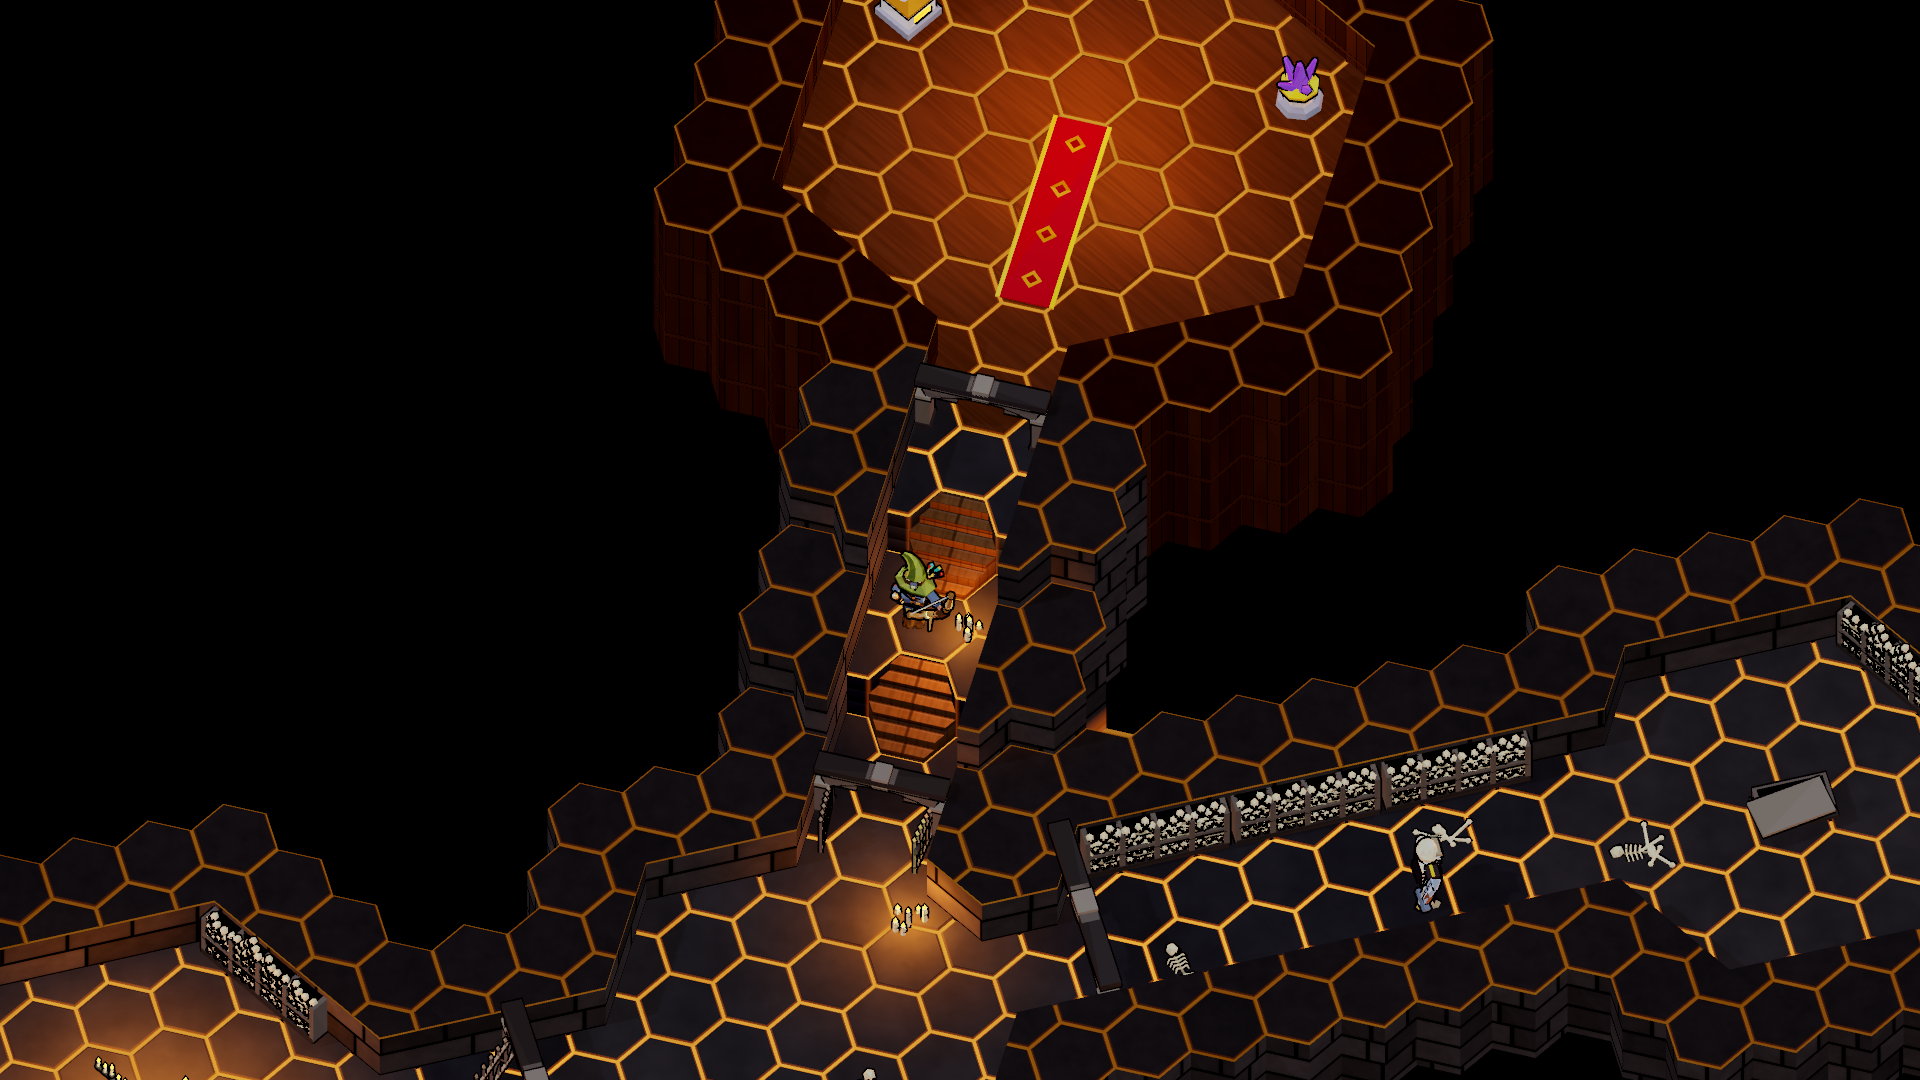
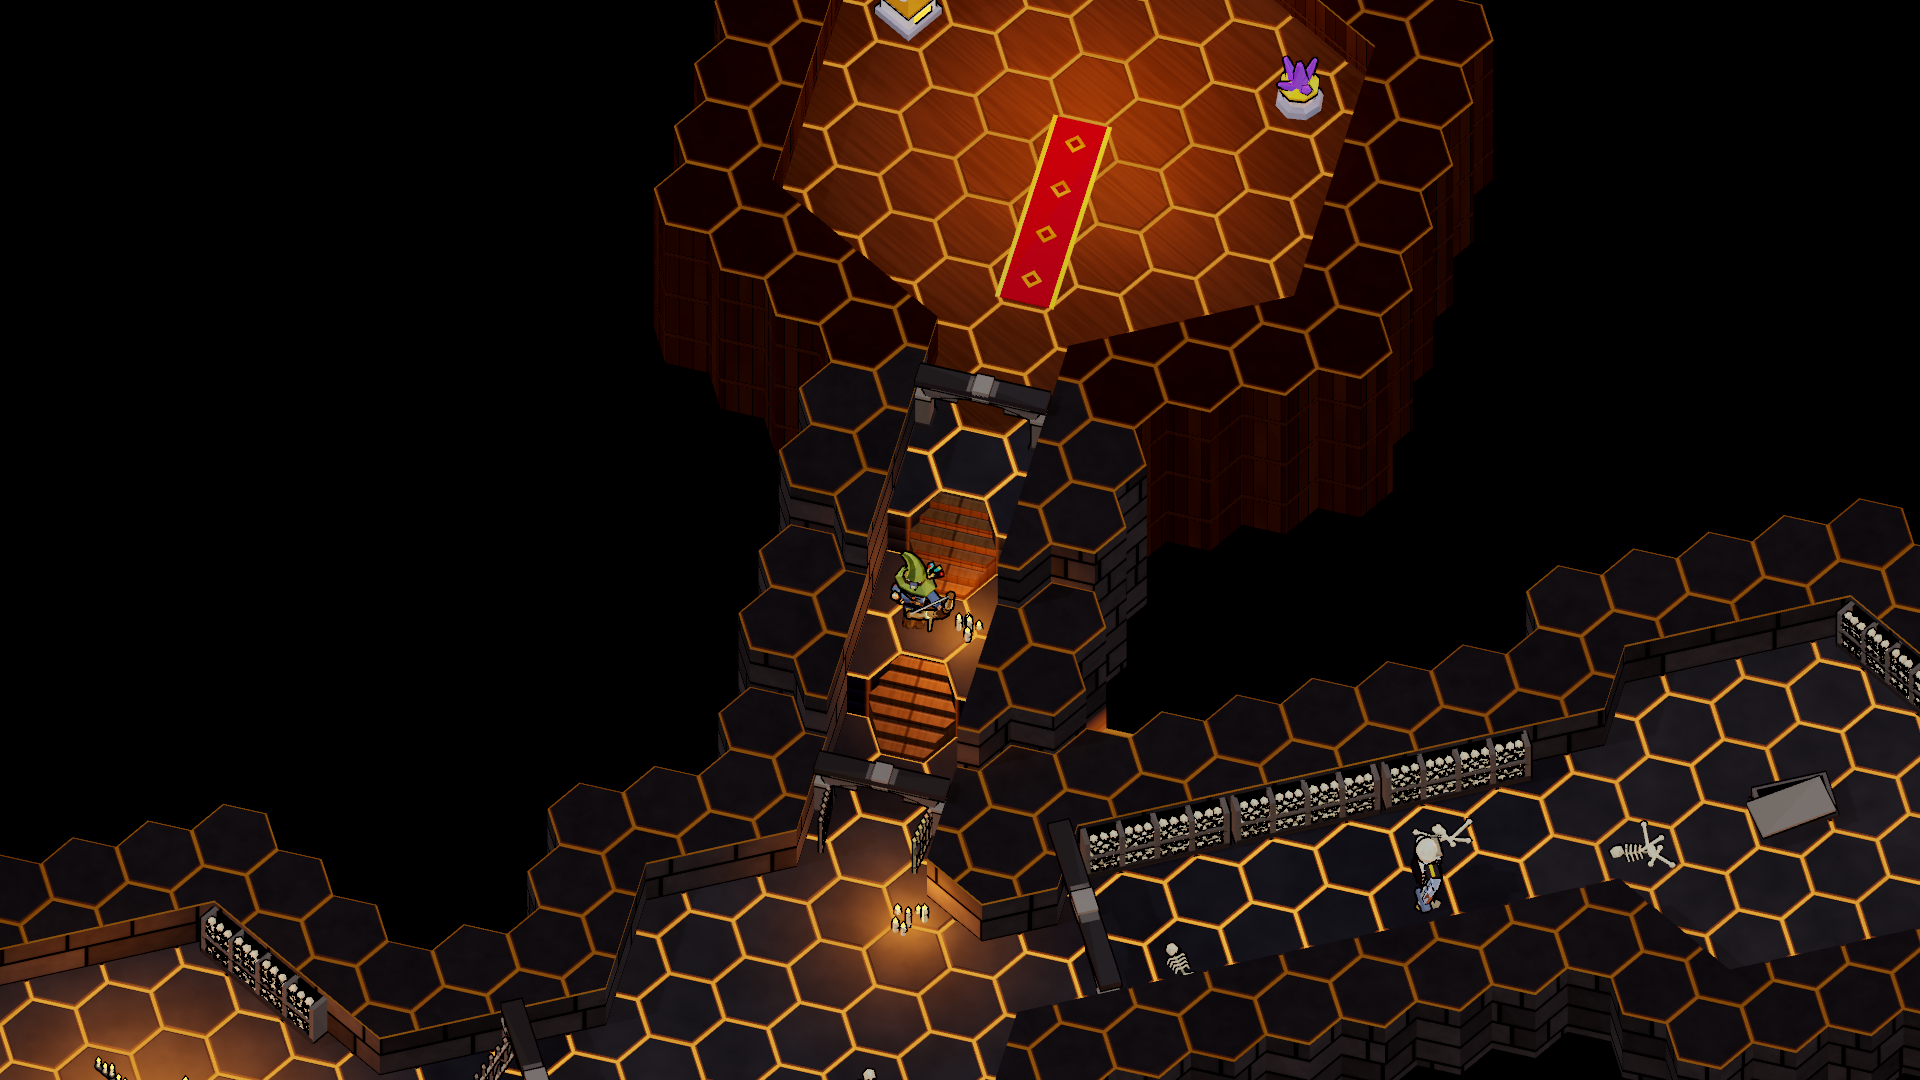
Crypt ossuary: the open top is one jittered row of skulls (the user's call)

diff --git a/docs/design/crypt-section.md b/docs/design/crypt-section.md
@@ -19,7 +19,7 @@ walls of skulls and bones, iron gates and candles, and how the crypt meets the f
 | **Light** | as shown | The crypt has no daylight. Its bright parts are candle light only. The dark parts get only a dim, cool ambient |
 
 The kit is the same in both sets: sarcophagi (effigy, cross or pushed-open lid), an ossuary wall (niches packed with
-bands of long bones between rows of skulls, its top open with skulls heaped on it), an iron bar gate in a stone arch
+bands of long bones between rows of skulls, its top open with a row of skulls on it), an iron bar gate in a stone arch
 (shut, half open or open), a plain stone arch, floor candles, a standing candelabra and a fallen skeleton. The church above also has
 pews and an altar.
 
@@ -132,7 +132,7 @@ This writes every PNG above next to `--shot`. `--set` renders only that set's tw
   wherever the generator likes.
 - **Candle light is the only light** in the crypt. The key light is almost off, because its wall shadows made the floors
   darker than the wall tops. That makes the dark parts flat and cool rather than shadowed.
-- **The walls are the game's height** (3 levels, 1.5), so the ossuary walls (1.45 plus the skull heap) fill a wall face and
+- **The walls are the game's height** (3 levels, 1.5), so the ossuary walls (1.45 plus the top row of skulls) fill a wall face and
   the arches (1.78) stand a little above it.
 - **Gates**: the stair's gate is open, the chamber's half open. A shut gate would be the natural "locked crypt" beat, but it
   needs a design (a key, a lever, a shove).
@@ -159,8 +159,9 @@ anything. The bones are a little weak."
   Then on the top: "I meant leave the top open. It can have a pile of skulls on it. Just no top board." And on the
   heap: "that is randomly in the air, not on the shelf. They should be laying on top of one another. The little dots
   also don't sell as skulls." So the niches are stacked the way a charnel house stacks them: bands of long bones laid
-  lengthwise between rows of skulls facing out. The open top has a row of skulls on the stack, more lying in the dips
-  between them, and now and then one more on those.
+  lengthwise between rows of skulls facing out. A heap on the open top (skulls lying in the dips of the row below) gave
+  way to the user's "Lets just try making the top row like the bottom two, just a slightly jittered row of skulls": the
+  open top carries one more row of skulls.
 
 The two sets: "I want both a vault and chapel, but they are too similar to eachother." Open: how to set them apart.
 
